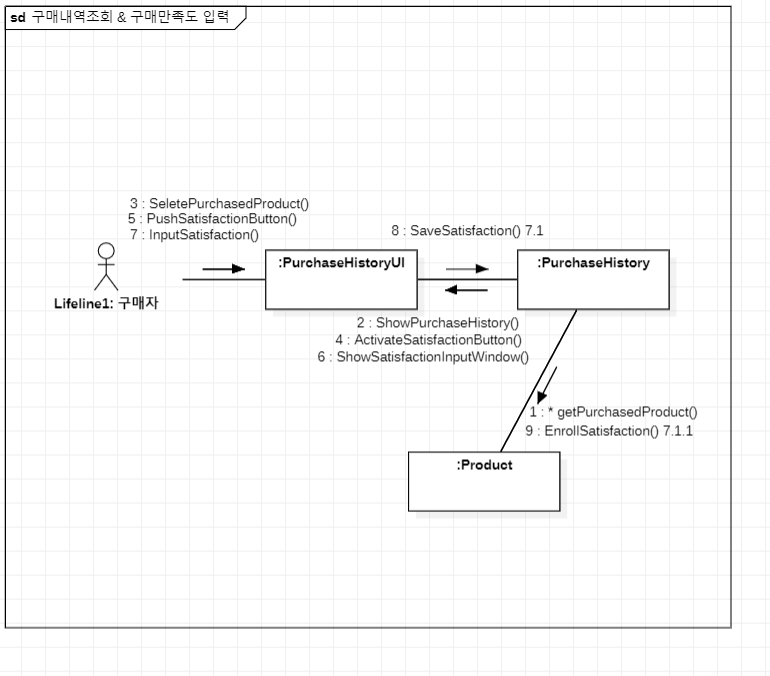
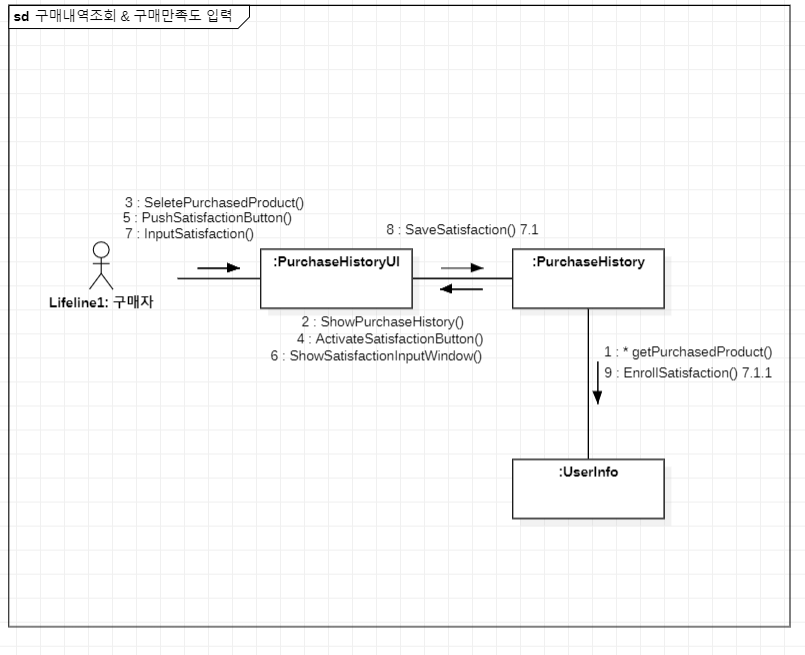
Communication diagram 수정 (UserInfo 추가)

Changed region(s): [[0.0, 0.0, 0.9974, 0.9771], [0.5299, 0.6412, 0.561, 0.6718]]

diff --git a/Use case descriptions(구매자 Actor 연관).md b/Use case descriptions(구매자 Actor 연관).md
@@ -2,12 +2,11 @@
 
 ##### 1. 상품 정보 검색
 
-| Actor Action                    | System Response                              |
-| ------------------------------- | -------------------------------------------- |
-| 1. 정보 검색 화면으로 접속한다. |                                              |
-|                                 | 2. 상품명을 입력할 검색창을 보여준다         |
-| 3. 상품명을 입력한다.           |                                              |
-|                                 | 4. 상품명에 대한 상세정보를 화면에 보여준다. |
+| Actor Action          | System Response                              |
+| --------------------- | -------------------------------------------- |
+|                       | 1. 상품명을 입력할 검색창을 보여준다         |
+| 2. 상품명을 입력한다. |                                              |
+|                       | 3. 상품명에 대한 상세정보를 화면에 보여준다. |
 
 ##### 2. 상품 구매
 
